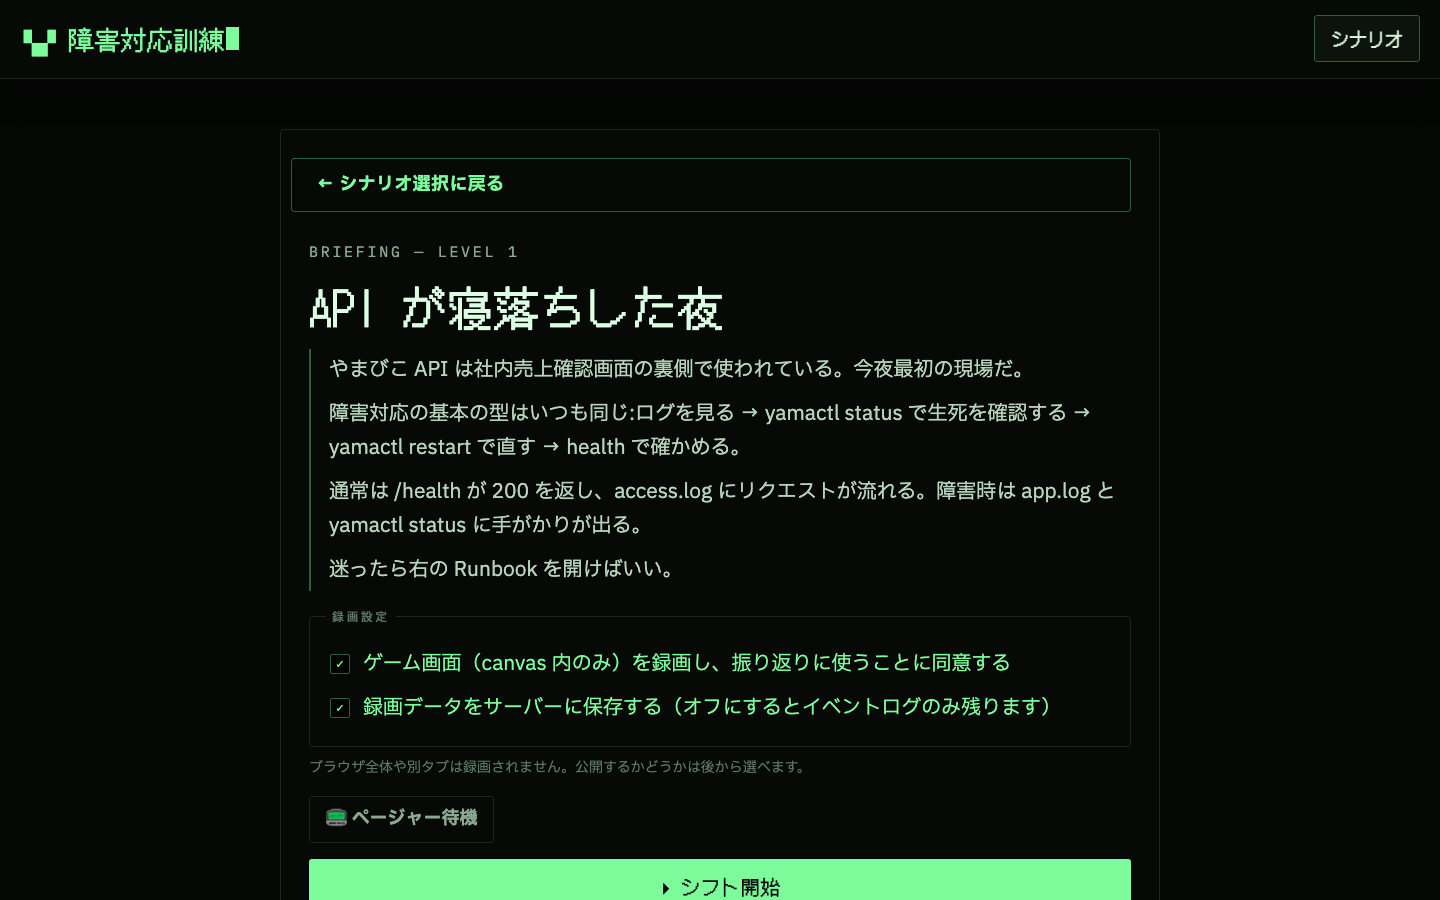
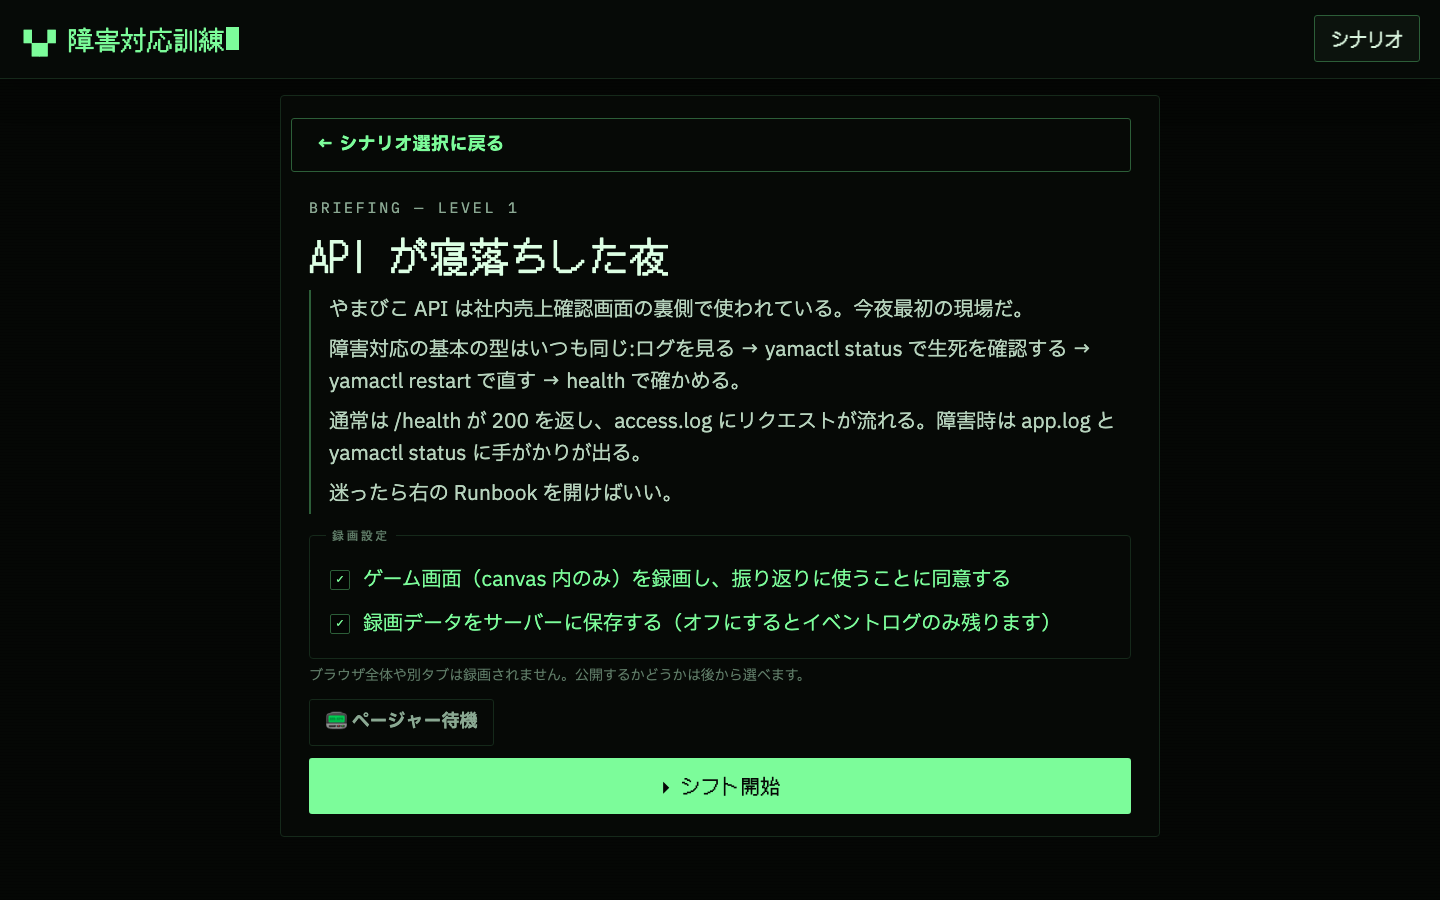
fix: ブリーフィング画面の縦余白を圧縮しシフト開始ボタンを初期表示に収める
margin-top 50→16px、gap/padding縮小、見出し46→40px。briefing VRT基準(darwin)再生成。linux基準はCIのvrt-baselineワークフローで要再生成。

Claude-Session: https://claude.ai/code/session_01BCWEmyftJ2cyYCSkUuRL1Z

Changed region(s): [[0.2188, 0.1244, 0.7812, 0.8089], [0.1875, 0.84, 0.8125, 1.0]]

diff --git a/apps/web/src/styles/app.css b/apps/web/src/styles/app.css
@@ -256,6 +256,10 @@ button:disabled {
   color: var(--accent-primary-bright);
 }
 
+.briefing-panel h1 {
+  font-size: 40px;
+}
+
 .lobby-lead {
   margin: 6px 0 0;
   color: var(--text-secondary);
@@ -527,11 +531,11 @@ button:disabled {
 
 .briefing-panel {
   display: grid;
-  gap: 16px;
-  margin-top: 50px;
+  gap: 12px;
+  margin-top: 16px;
   border: 1px solid var(--border-subtle);
   border-radius: var(--radius-l);
-  padding: 28px;
+  padding: 22px 28px;
   background: var(--surface-overlay);
 }
 
@@ -548,19 +552,19 @@ button:disabled {
 
 .briefing-panel ul {
   display: grid;
-  gap: 10px;
+  gap: 8px;
   margin: 0;
   padding: 4px 0 4px 18px;
   border-left: 2px solid var(--border-default);
   list-style: none;
   color: #b7d3bd;
-  line-height: 1.7;
+  line-height: 1.6;
 }
 
 .briefing-panel fieldset {
   border: 1px solid var(--border-subtle);
   border-radius: var(--radius-l);
-  padding: 16px;
+  padding: 12px 16px;
   margin: 0;
 }
 